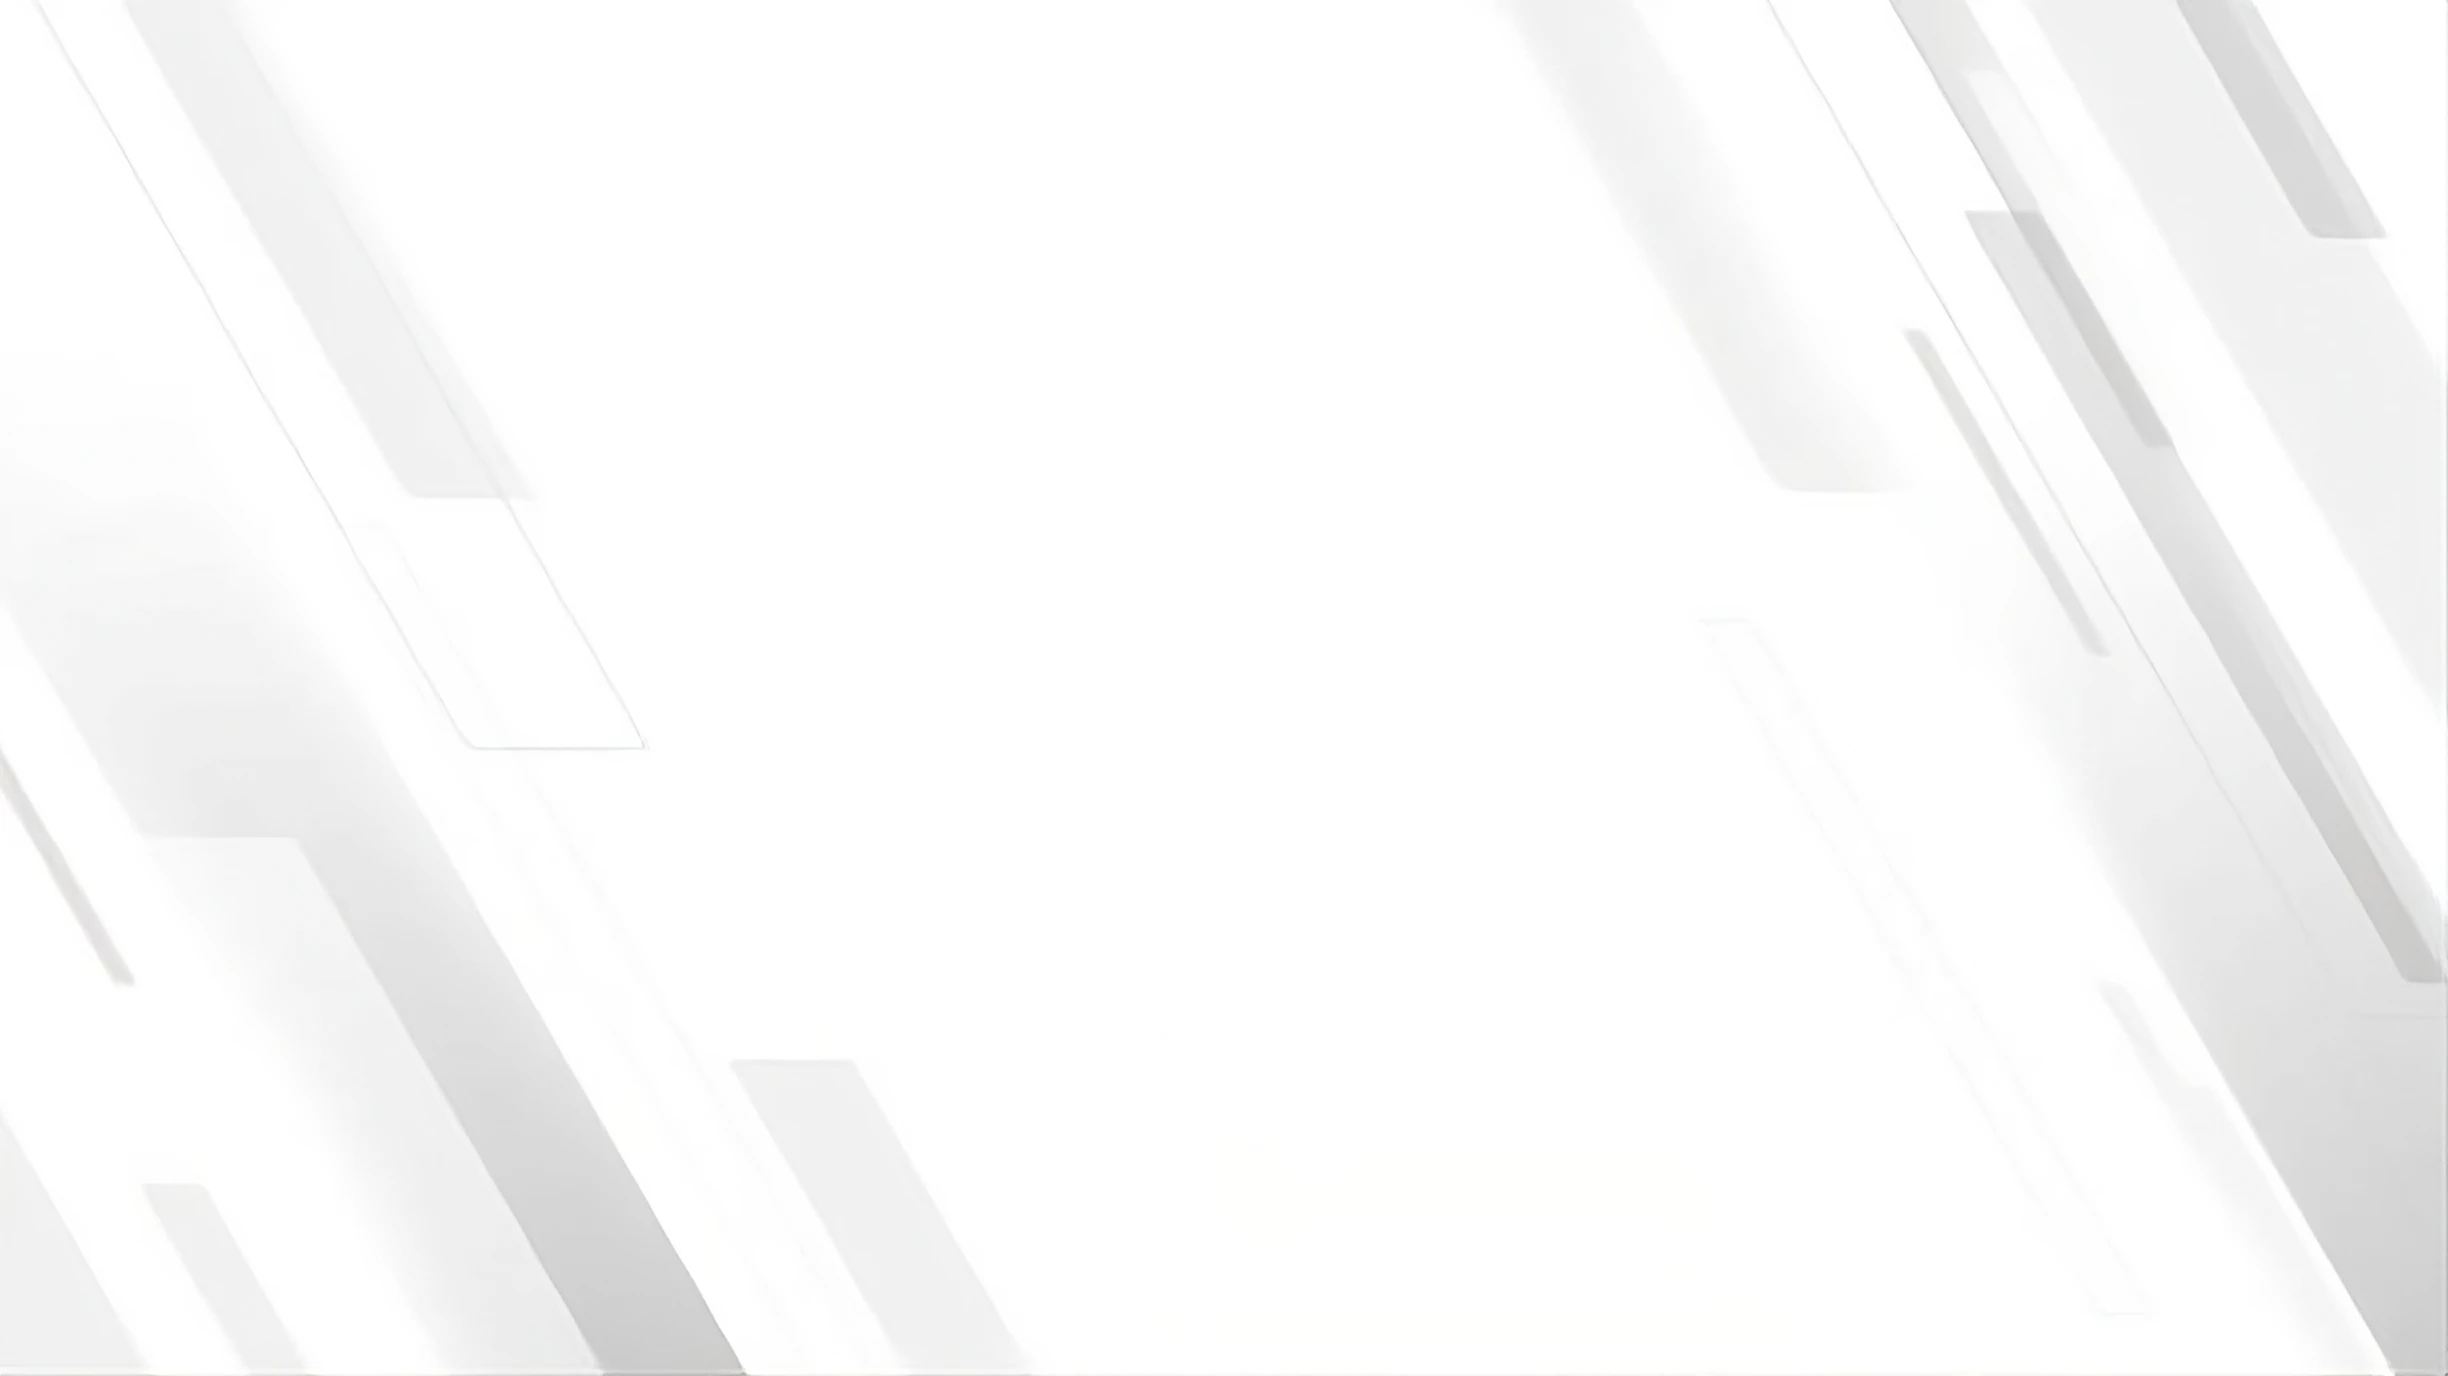
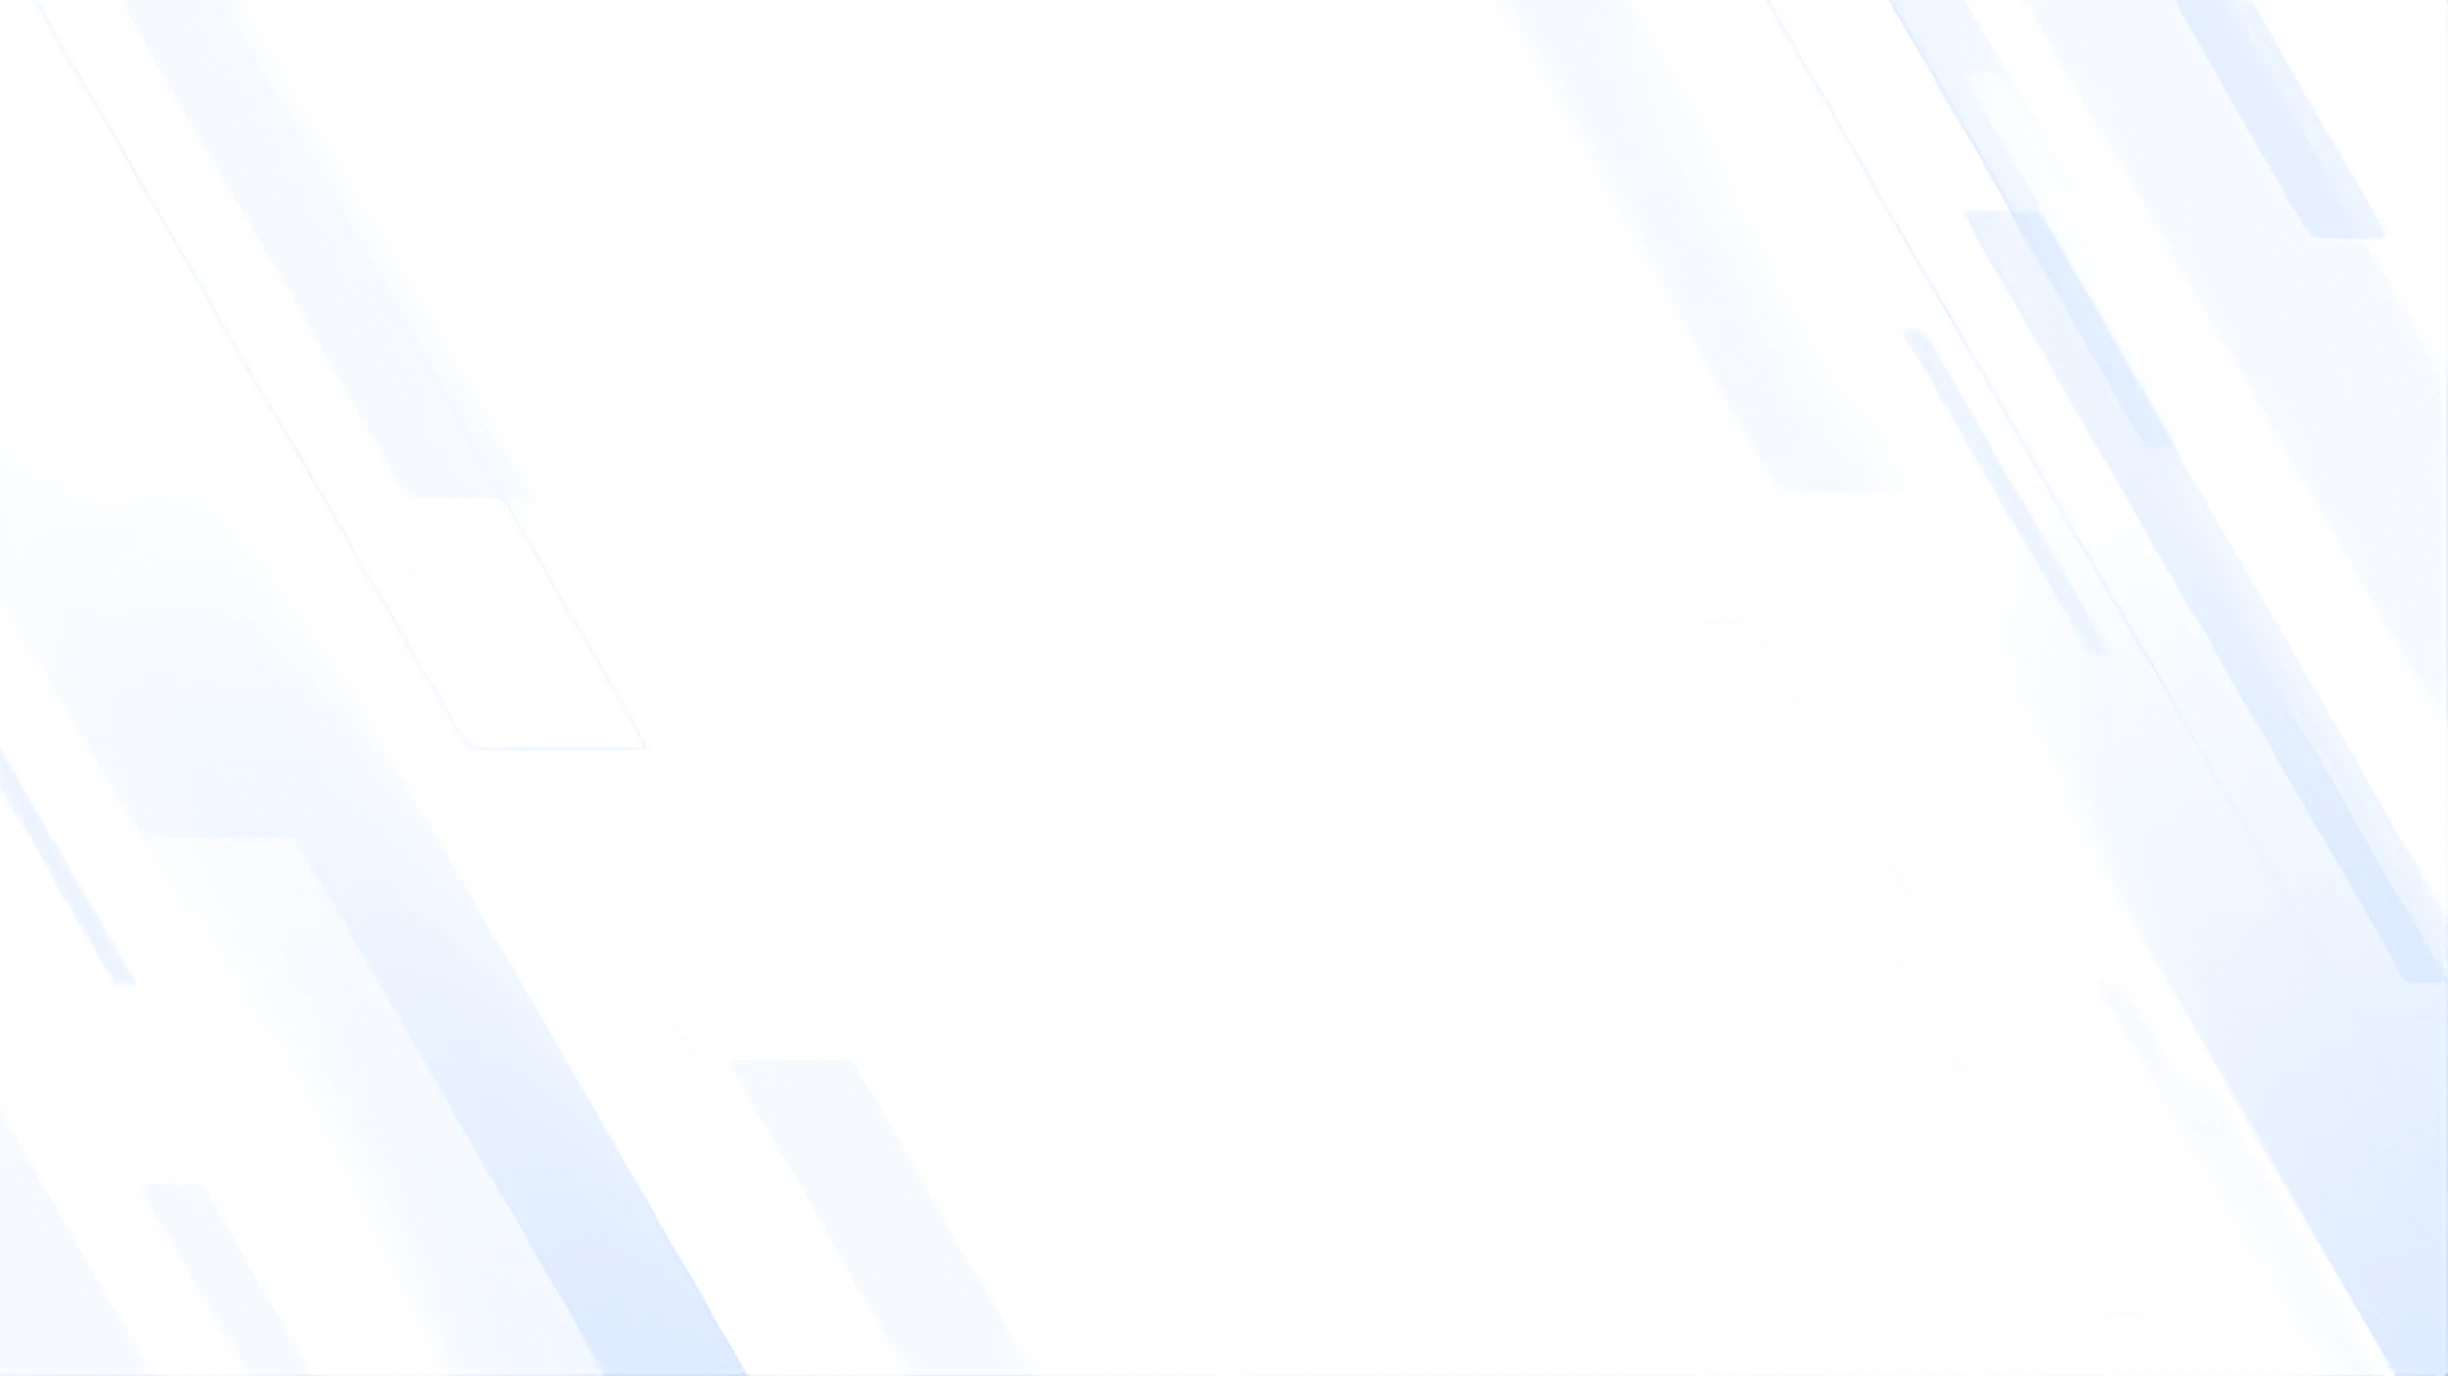
Cambios interfaz - colores

diff --git a/src/main/resources/static/css/style.css b/src/main/resources/static/css/style.css
@@ -2,6 +2,22 @@ body {
     background: url("/img/bg.webp") center/cover no-repeat fixed;
 }
 
+.bg-custom-purple {
+  background-color: Purple;
+}
+
+@media (min-width: 768px) {
+  .container {
+    max-width: 700px;
+  }
+}
+
+@media (min-width: 992px) {
+  .container {
+    max-width: 900px;
+  }
+}
+
 /* Form */
 
 .form-label.required::after {
@@ -18,8 +34,8 @@ body {
 /* Table */
 
 .table, .table.table-striped {
-    border-left-color: Blue !important;
-    border-left-width: 3px !important;
+    border-left-color: Salmon !important;
+    border-left-width: 6px !important;
 }
 
 #actions, table {

diff --git a/src/main/resources/templates/fragment/navbar.html b/src/main/resources/templates/fragment/navbar.html
@@ -1,4 +1,4 @@
-<nav th:fragment="navbar" class="navbar navbar-expand-lg bg-primary bg-gradient" data-bs-theme="dark">
+<nav th:fragment="navbar" class="navbar navbar-expand-lg bg-custom-purple bg-gradient" data-bs-theme="dark">
   <div class="container">
     <a class="navbar-brand" href="/">
       <img src="/img/rtic.svg" alt="Logo" width="30" height="24" class="d-inline-block align-text-top">
